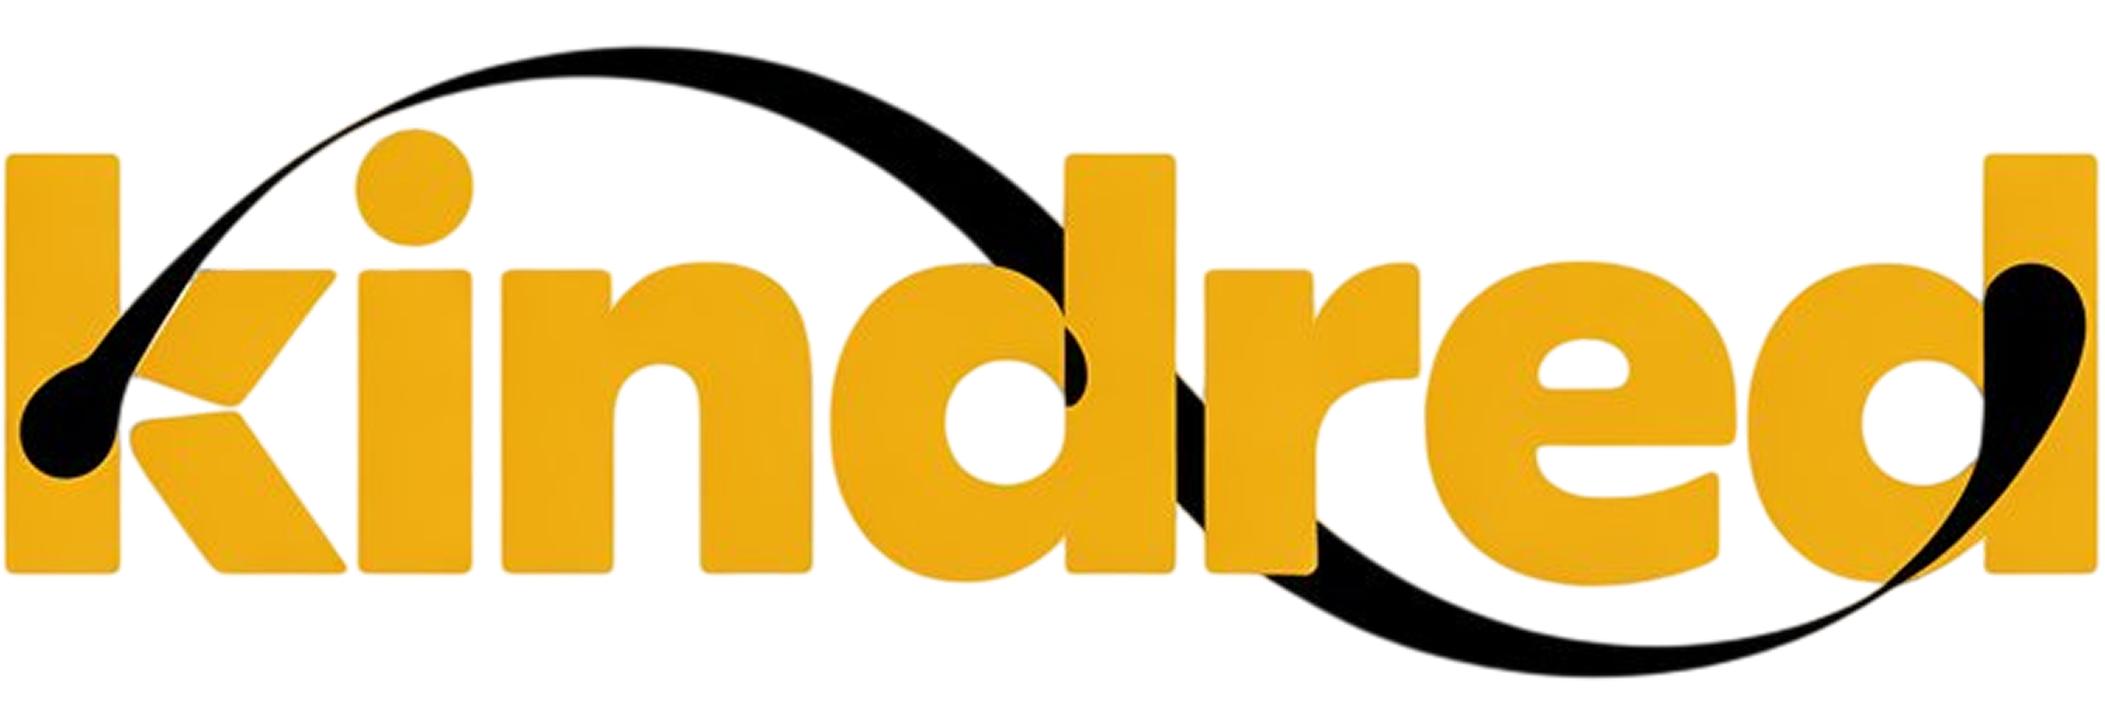
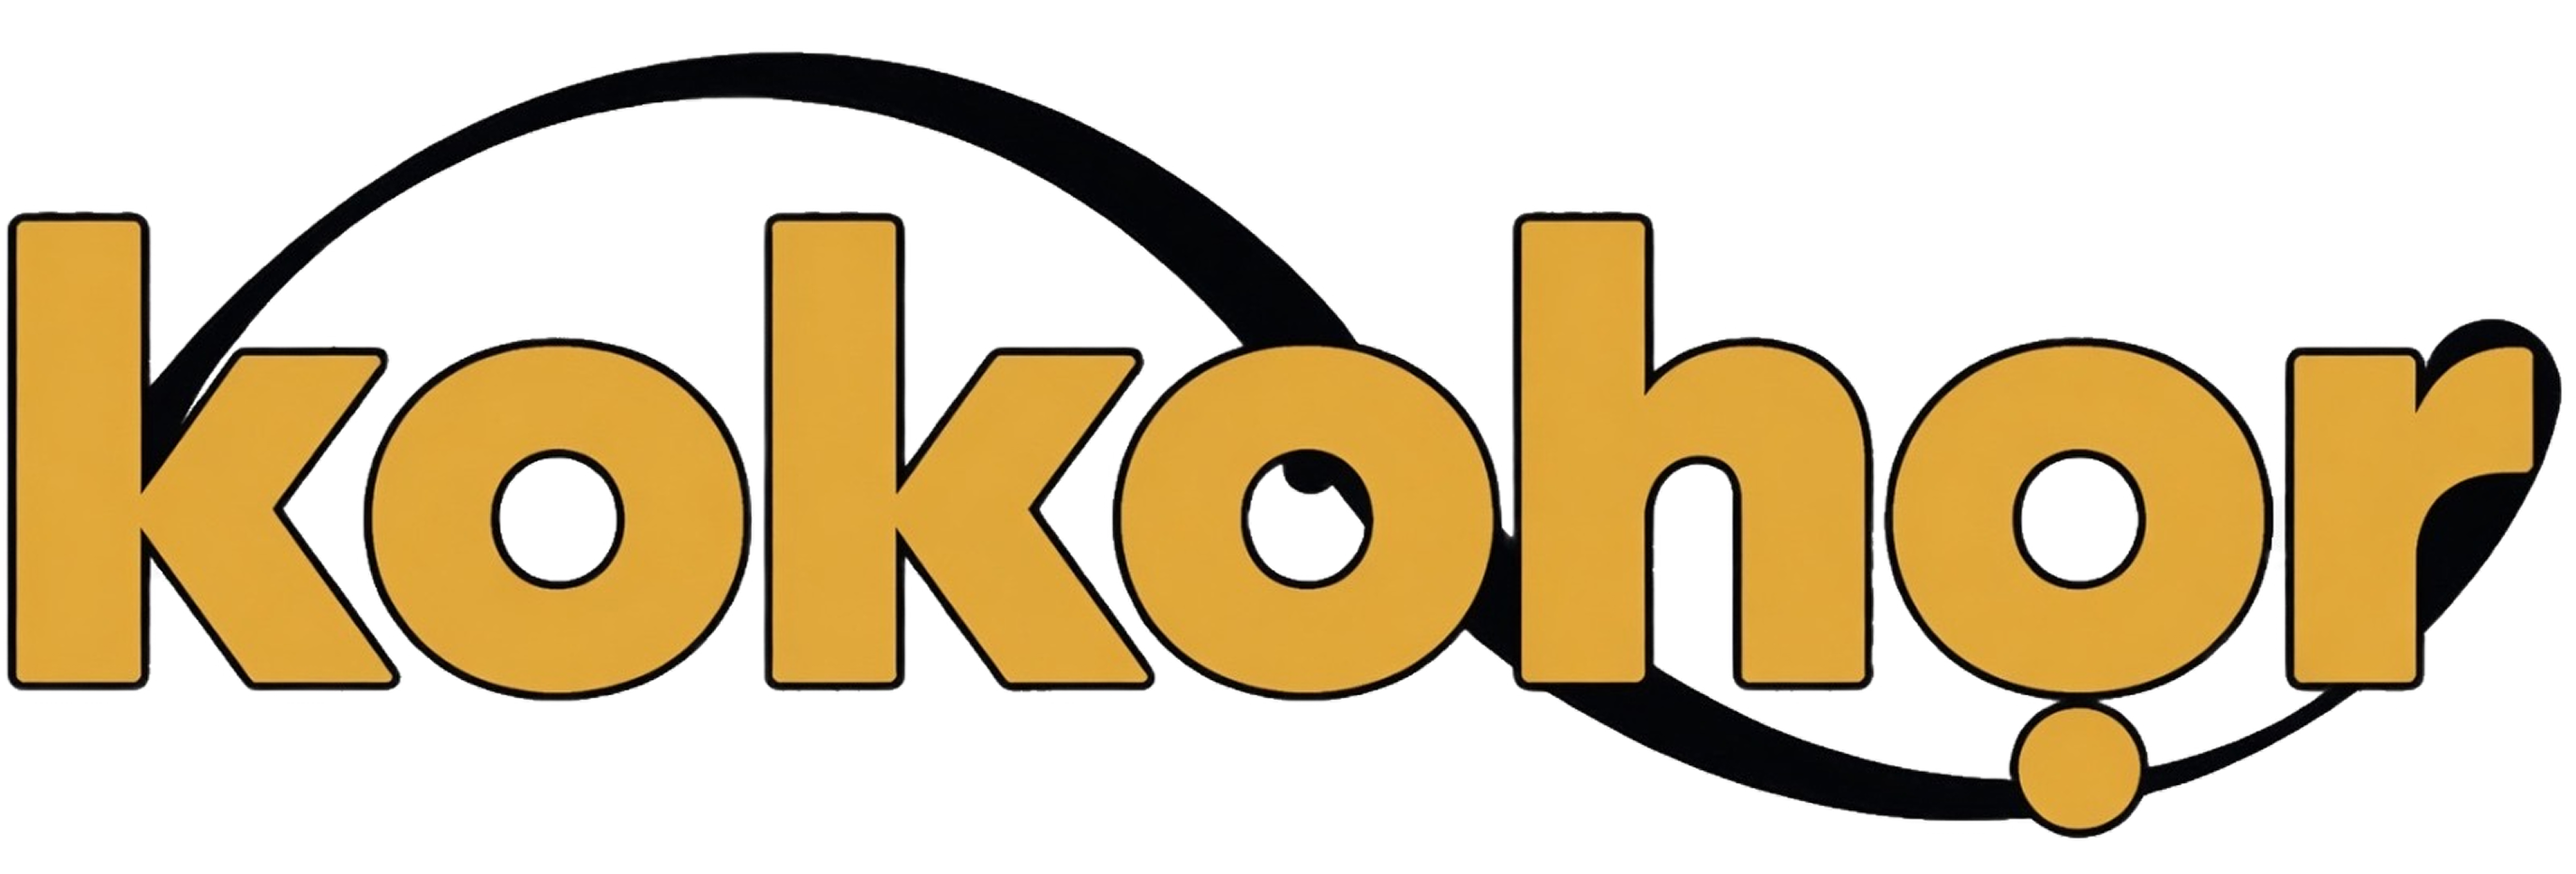
updates

diff --git a/src/landing_page/policy/Terms.tsx b/src/landing_page/policy/Terms.tsx
@@ -8,21 +8,21 @@ const TermsPage: React.FC = () => {
       tag: "INFRASTRUCTURE",
       title: "Service Protocol",
       content:
-        "Kindred operates as a digital estate facilitator. By using this platform, you acknowledge that our role is strictly limited to providing the secure scaffolding for family mapping and document storage. We do not mediate family disputes or verify the historical accuracy of uploaded data.",
+        "Kokohor operates as a digital estate facilitator. By using this platform, you acknowledge that our role is strictly limited to providing the secure scaffolding for family mapping and document storage. We do not mediate family disputes or verify the historical accuracy of uploaded data.",
     },
     {
       id: "02",
       tag: "ADMINISTRATION",
       title: "User Sovereignty",
       content:
-        "You are the sole administrator of your family vault. Kindred utilizes a Zero-Access architecture; we do not maintain backdoors or master recovery keys. Loss of access credentials results in the permanent, irreversible seal of your vault. We cannot reset passwords for you.",
+        "You are the sole administrator of your family vault. Kokohor utilizes a Zero-Access architecture; we do not maintain backdoors or master recovery keys. Loss of access credentials results in the permanent, irreversible seal of your vault. We cannot reset passwords for you.",
     },
     {
       id: "03",
       tag: "OWNERSHIP",
       title: "Heritage Rights",
       content:
-        "All assets—including family trees, photos, and voice recordings—remain the absolute intellectual property of your family. Kindred claims zero rights to your data and will never monetize your lineage. You grant us a limited, technical license only to process data for display within your private circle.",
+        "All assets—including family trees, photos, and voice recordings—remain the absolute intellectual property of your family. Kokohor claims zero rights to your data and will never monetize your lineage. You grant us a limited, technical license only to process data for display within your private circle.",
     },
     {
       id: "04",
@@ -36,7 +36,7 @@ const TermsPage: React.FC = () => {
       tag: "MAINTENANCE",
       title: "Estate Continuity",
       content:
-        "Maintenance of the digital estate requires an active subscription. Failure to maintain contributions may result in your vault entering a read-only state. After 12 months of total inactivity, Kindred reserves the right to archive data to preserve network resources.",
+        "Maintenance of the digital estate requires an active subscription. Failure to maintain contributions may result in your vault entering a read-only state. After 12 months of total inactivity, Kokohor reserves the right to archive data to preserve network resources.",
     },
   ];
 
@@ -97,7 +97,7 @@ const TermsPage: React.FC = () => {
         {/* Footer Note */}
         <div className="mt-12 text-center lg:text-left">
           <p className="text-gray-600 text-[10px] font-black uppercase tracking-[0.3em]">
-            Effective Date: April 2026 // Kindred Operations Center
+            Effective Date: April 2026 // Kokohor Operations Center
           </p>
         </div>
       </div>

diff --git a/src/landing_page/about/About.tsx b/src/landing_page/about/About.tsx
@@ -22,7 +22,7 @@ const AboutPage: React.FC = () => {
           >
             <span className="w-2 h-2 rounded-full bg-yellow-500 animate-pulse" />
             <span className="text-[10px] font-black uppercase tracking-[0.3em]">
-              The Kindred Protocol
+              The Kokohor Protocol
             </span>
           </motion.div>
 
@@ -32,7 +32,7 @@ const AboutPage: React.FC = () => {
             className="text-black text-6xl lg:text-[11rem] font-black tracking-tighter leading-[0.8] mb-12 uppercase"
           >
             ABOUT<br />
-            <span className="text-gray-200 font-bold">KINDRED.</span>
+            <span className="text-gray-200 font-bold">Kokohor.</span>
           </motion.h1>
 
           <motion.p
@@ -40,7 +40,7 @@ const AboutPage: React.FC = () => {
             animate={{ opacity: 1 }}
             className="text-gray-600 text-xl lg:text-xl font-light max-w-4xl mx-auto leading-tight mb-16"
           >
-            Kindred is a digital ecosystem engineered to bridge the gap between
+            Kokohor is a digital ecosystem engineered to bridge the gap between
             instant communication and ancestral permanence. We build for the
             generations that follow.
           </motion.p>
@@ -58,7 +58,7 @@ const AboutPage: React.FC = () => {
               DEFEATING <br /> CHAT FATIGUE.
             </h3>
             <p className="text-white/40 text-xl font-light leading-relaxed mb-10">
-              Standard social platforms thrive on chaos. Kindred utilizes Signal
+              Standard social platforms thrive on chaos. Kokohor utilizes Signal
               Intelligence to filter the noise of daily interaction, distilling
               family activity into structured, actionable insights.
             </p>
@@ -178,7 +178,7 @@ const AboutPage: React.FC = () => {
             <span className="text-gray-200 font-bold">DIGITAL HOME.</span>
           </h2>
           <p className="text-gray-500 text-xl font-light mb-16 leading-relaxed">
-            Kindred is currently in active development for families who value
+            Kokohor is currently in active development for families who value
             permanence over the ephemeral nature of modern social media.
           </p>
           <div className="flex flex-col sm:flex-row items-center justify-center gap-4">

diff --git a/src/landing_page/FAQS/FAQSPage.tsx b/src/landing_page/FAQS/FAQSPage.tsx
@@ -50,7 +50,7 @@ const faqs: FAQCategory[] = [
       {
         question: "How are 'Village Traditions' preserved?",
         answer:
-          "Kindred allows families to digitize oral traditions. You can record elders, geotag ancestral village landmarks, and document the specific protocols of traditional rites, ensuring your cultural identity survives the digital migration.",
+          "Kokohor allows families to digitize oral traditions. You can record elders, geotag ancestral village landmarks, and document the specific protocols of traditional rites, ensuring your cultural identity survives the digital migration.",
       },
     ],
   },
@@ -148,7 +148,7 @@ const FAQPage: React.FC = () => {
             FAQ <br />
           </h1>
           <p className="text-gray-500 text-xl font-light max-w-2xl leading-relaxed mx-auto lg:mx-0">
-            Technical insight into the architecture of Kindred—the digital home
+            Technical insight into the architecture of Kokohor—the digital home
             built for family sovereignty and ancestral permanence.
           </p>
         </div>
@@ -172,7 +172,7 @@ const FAQPage: React.FC = () => {
                     {category.title}
                   </h2>
                   <p className="text-gray-400 text-sm font-medium leading-relaxed max-w-xs">
-                    In-depth details on how Kindred handles this pillar of the
+                    In-depth details on how Kokohor handles this pillar of the
                     family ecosystem.
                   </p>
                 </div>

diff --git a/src/landing_page/policy/Privacy.tsx b/src/landing_page/policy/Privacy.tsx
@@ -11,7 +11,7 @@ const PrivacyPage: React.FC = () => {
     {
       title: "Zero-Knowledge Encryption",
       content:
-        "Your family data is encrypted on your device using AES-256 before transmission. Kindred acts as a blind carrier. We have no technical means to decrypt your vault documents.",
+        "Your family data is encrypted on your device using AES-256 before transmission. Kokohor acts as a blind carrier. We have no technical means to decrypt your vault documents.",
     },
     {
       title: "Third-Party Interaction",
@@ -26,7 +26,7 @@ const PrivacyPage: React.FC = () => {
     {
       title: "Regional Sovereignty",
       content:
-        "Kindred complies with global data protection standards (GDPR, NDPR). Your data is hosted in high-security regional zones chosen for their robust legal protection of digital privacy.",
+        "Kokohor complies with global data protection standards (GDPR, NDPR). Your data is hosted in high-security regional zones chosen for their robust legal protection of digital privacy.",
     },
   ];
 
@@ -87,7 +87,7 @@ const PrivacyPage: React.FC = () => {
         {/* Bottom Contact Reference */}
         <div className="mt-12 text-center lg:text-left">
           <p className="text-gray-600 text-[10px] font-black uppercase tracking-[0.3em]">
-            Last Updated: April 2026 // Kindred Legal Dept.
+            Last Updated: April 2026 // Kokohor Legal Dept.
           </p>
         </div>
       </div>

diff --git a/src/landing_page/home/FamilyCarousel.tsx b/src/landing_page/home/FamilyCarousel.tsx
@@ -20,7 +20,7 @@ const families = [
     name: "Zenith Family",
     location: "Port Harcourt, NG",
     caption:
-      "Kindred turned our scattered family photos and documents into a single, permanent home. Now, our history is safe and accessible to every relative, no matter where they are.",
+      "Kokohor turned our scattered family photos and documents into a single, permanent home. Now, our history is safe and accessible to every relative, no matter where they are.",
     image: familyImg1,
     stat: "100% Data Ownership",
     tag: "Family Vault",
@@ -40,7 +40,7 @@ const families = [
     name: "Chen Family",
     location: "Toronto, CA",
     caption:
-      "We needed a place where our children could grow up seeing their heritage. Kindred is more than an app; it's the digital foundation for our future generations.",
+      "We needed a place where our children could grow up seeing their heritage. Kokohor is more than an app; it's the digital foundation for our future generations.",
     image: familyImg3,
     stat: "Multi-Gen Storage",
     tag: "Heritage Archive",
@@ -193,7 +193,7 @@ const FamilyCarousel: React.FC = () => {
                         Platform
                       </p>
                       <p className="text-yellow-500 font-black text-xl lg:text-2xl uppercase">
-                        Kindred Mobile
+                        Kokohor Mobile
                       </p>
                     </div>
                   </div>

diff --git a/src/landing_page/footer/Footer.tsx b/src/landing_page/footer/Footer.tsx
@@ -32,7 +32,7 @@ const KindredFooter: React.FC = () => {
             >
               <img
                 src={logoImg}
-                alt="Kindred Logo"
+                alt="Kokohor Logo"
                 className="w-full h-full object-contain"
               />
             </a>
@@ -112,7 +112,7 @@ const KindredFooter: React.FC = () => {
         <div className="flex flex-col md:flex-row justify-between items-center gap-10 border-t border-white/5 pt-12">
           <div className="flex flex-col md:flex-row items-center gap-8">
             <span className="text-gray-700 text-[10px] font-black uppercase tracking-[0.4em]">
-              © {currentYear} KINDRED . ALL RIGHTS RESERVED.
+              © {currentYear} Kokohor . ALL RIGHTS RESERVED.
             </span>
           </div>
 
@@ -133,7 +133,7 @@ const KindredFooter: React.FC = () => {
       {/* Oversized Background Label */}
       <div className="absolute -bottom-16 left-0 w-full text-center pointer-events-none opacity-[0.01] select-none">
         <h2 className="text-[25vw] font-black uppercase leading-none tracking-tighter">
-          Kindred
+          Kokohor
         </h2>
       </div>
     </footer>

diff --git a/src/landing_page/features/FeaturesPage.tsx b/src/landing_page/features/FeaturesPage.tsx
@@ -1,7 +1,6 @@
 import React from "react";
 import { motion } from "framer-motion";
 import {
-
   Lock,
   History,
   Cpu,
@@ -26,7 +25,7 @@ const FeaturesPage: React.FC = () => {
           >
             <span className="w-2 h-2 rounded-full bg-yellow-500 animate-pulse" />
             <span className="text-[10px] font-black uppercase tracking-[0.3em]">
-              Kindred Protocol v2.0
+              Kokohor Protocol v2.0
             </span>
           </motion.div>
 
@@ -196,7 +195,7 @@ const FeaturesPage: React.FC = () => {
                   Signal <br /> Intelligence
                 </p>
                 <p className="text-white/40 text-xl font-light leading-relaxed">
-                  Kindred’s neural core scans activity and generates structured
+                  Kokohor’s neural core scans activity and generates structured
                   summaries. See critical updates, open polls, and announcements
                   at a glance without scrolling through history.
                 </p>

diff --git a/src/landing_page/home/Hero.tsx b/src/landing_page/home/Hero.tsx
@@ -37,7 +37,7 @@ const Hero: React.FC = () => {
           </h1>
 
           <p className="text-gray-400 text-lg mb-8 max-w-lg leading-relaxed font-medium">
-            Kindred brings your inner circle closer with secure messaging,
+            Kokohor brings your inner circle closer with secure messaging,
             real-time family dashboards, and shared moments—all protected within
             your private digital sanctuary.
           </p>
@@ -117,7 +117,7 @@ const Hero: React.FC = () => {
                 </div>
                 <div>
                   <h3 className="text-white text-xl font-black tracking-tight">
-                    Kindred Network
+                    Kokohor Network
                   </h3>
                   <p className="text-yellow-500/60 text-xs font-bold uppercase tracking-widest">
                     System Active

diff --git a/index.html b/index.html
@@ -5,10 +5,10 @@
     <link rel="icon" type="image/png" href="./src/assets/new.png" />
 
     <meta name="viewport" content="width=device-width, initial-scale=1.0" />
-    <title>Kindred | Deepening Connections</title>
+    <title>Kokohor | Deepening Connections</title>
     <meta
       name="description"
-      content="Kindred: The private sanctuary for modern family communication and collaboration."
+      content="Kokohor: The private sanctuary for modern family communication and collaboration."
     />
 
     <link rel="preconnect" href="https://fonts.googleapis.com" />

diff --git a/src/admin/AdminAuth.tsx b/src/admin/AdminAuth.tsx
@@ -147,7 +147,7 @@ const AdminAuth: React.FC = () => {
                     </div>
                     <input
                       type="email"
-                      placeholder="admin@kindred.app"
+                      placeholder="admin@kokohor.com"
                       className="w-full bg-white/[0.03] border border-white/10 rounded-2xl py-5 pl-14 pr-5 text-white focus:outline-none focus:border-yellow-500/50 transition-all font-medium placeholder:text-gray-700"
                       value={email}
                       onChange={(e) => setEmail(e.target.value)}

diff --git a/src/landing_page/home/LegacyVault.tsx b/src/landing_page/home/LegacyVault.tsx
@@ -56,7 +56,7 @@ const LegacyVaultLight: React.FC = () => {
                 <span className="text-gray-300">VILLAGE VAULT.</span>
               </h3>
               <p className="text-gray-500 text-lg font-light leading-relaxed">
-                Beyond chat, Kindred provides a secure repository for the
+                Beyond chat, Kokohor provides a secure repository for the
                 pillars of your family identity.
               </p>
             </div>

diff --git a/src/landing_page/home/KindredStudio.tsx b/src/landing_page/home/KindredStudio.tsx
@@ -38,7 +38,7 @@ const KindredStudio: React.FC = () => {
             >
               <span className="w-2 h-2 rounded-full bg-black" />
               <span className="text-black font-black uppercase tracking-[0.3em] text-[10px]">
-                The Kindred Standard
+                The Kokohor Standard
               </span>
             </motion.div>
             <h2 className="text-[#050505] text-5xl lg:text-8xl font-black tracking-tighter leading-[0.85]">
